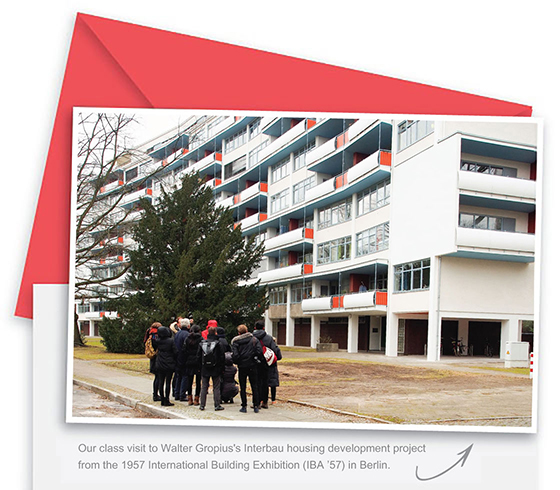
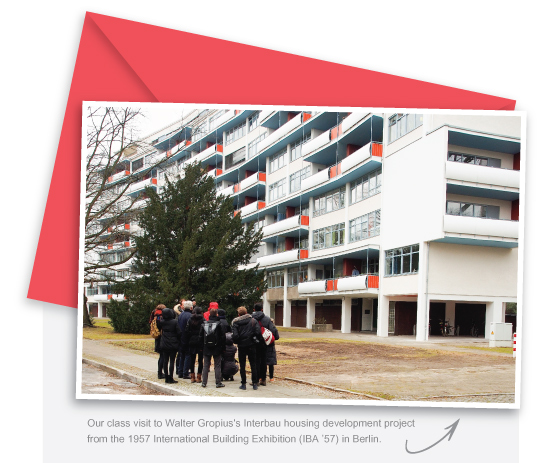
match letter body with header image

diff --git a/make.html b/make.html
@@ -97,7 +97,7 @@
             <table width="560" height="100" cellspacing="0" cellpadding="0">
                 <tbody>
                     <tr>
-                        <td style="text-align: center;"><img src="https://raw.githubusercontent.com/work-shop/gsd-email-templates/master/img/header.jpg" width="560" height="490" border="0" alt="Walter Gropius's Interbau housing development project in Berlin" style="display: block; padding: 0; color: #666666; text-decoration: none; font-family: Helvetica, arial, sans-serif; font-size: 15px; width: 560px; height: 490px;" class="img-max"></td>
+                        <td style="text-align: center; padding-right:1px;"><img src="https://raw.githubusercontent.com/work-shop/gsd-email-templates/master/img/header.jpg" width="560" height="490" border="0" alt="Walter Gropius's Interbau housing development project in Berlin" style="display: block; padding: 0; color: #666666; text-decoration: none; font-family: Helvetica, arial, sans-serif; font-size: 15px; width: 560px; height: 490px;" class="img-max"></td>
                     </tr>
                 </tbody>
             </table>
@@ -108,7 +108,7 @@
                         <td valign="bottom" align="right">
 
                         <!-- LETTER BODY -->
-                        <table cellspacing="5" cellpadding="0" border="0" bgcolor="#f1f1f1">
+                        <table cellspacing="5" cellpadding="0" border="0" bgcolor="#f3f3f5">
                             <tbody>
                                 <tr>
                                     <td align="left" style="padding: 20px 46px 20px 46px; font-size: 15px; line-height: 26px; font-family: Helvetica, Arial, sans-serif; color: #444444;" class="padding-copy">

diff --git a/renew.html b/renew.html
@@ -97,7 +97,7 @@
             <table width="560" height="100" cellspacing="0" cellpadding="0">
                 <tbody>
                     <tr>
-                        <td style="text-align: center;"><img src="https://raw.githubusercontent.com/work-shop/gsd-email-templates/master/img/header.jpg" width="560" height="490" border="0" alt="Walter Gropius's Interbau housing development project in Berlin" style="display: block; padding: 0; color: #666666; text-decoration: none; font-family: Helvetica, arial, sans-serif; font-size: 15px; width: 560px; height: 490px;" class="img-max"></td>
+                        <td style="text-align: center; padding-right:1px;"><img src="https://raw.githubusercontent.com/work-shop/gsd-email-templates/master/img/header.jpg" width="560" height="490" border="0" alt="Walter Gropius's Interbau housing development project in Berlin" style="display: block; padding: 0; color: #666666; text-decoration: none; font-family: Helvetica, arial, sans-serif; font-size: 15px; width: 560px; height: 490px;" class="img-max"></td>
                     </tr>
                 </tbody>
             </table>
@@ -108,7 +108,7 @@
                         <td valign="bottom" align="right">
 
                         <!-- LETTER BODY -->
-                        <table cellspacing="5" cellpadding="0" border="0" bgcolor="#f1f1f1">
+                        <table cellspacing="5" cellpadding="0" border="0" bgcolor="#f3f3f5">
                             <tbody>
                                 <tr>
                                     <td align="left" style="padding: 20px 46px 20px 46px; font-size: 15px; line-height: 26px; font-family: Helvetica, Arial, sans-serif; color: #444444;" class="padding-copy">
